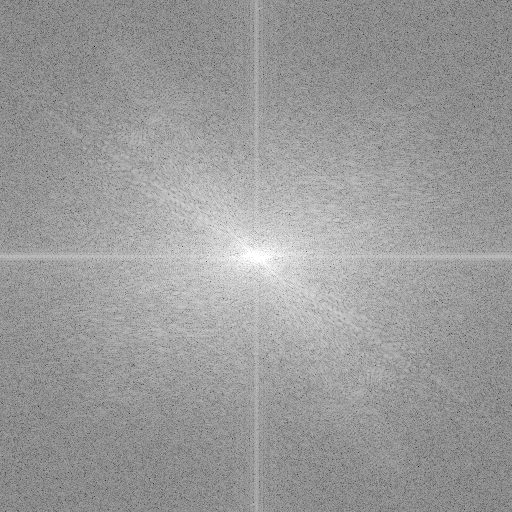
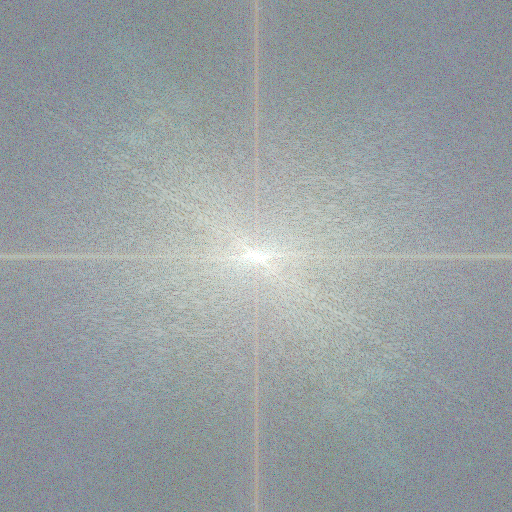
Added Filtering For Colours in Frequency Domain

diff --git a/app.py b/app.py
@@ -58,20 +58,30 @@ def frequency1():
     # read the image
     img = cv2.imread('temp.png')
 
-    # convert the image to grayscale
-    img = cv2.cvtColor(img, cv2.COLOR_BGR2GRAY)
+    # # convert the image to grayscale
+    # img = cv2.cvtColor(img, cv2.COLOR_BGR2GRAY)
 
-    # saving the image to a file
-    cv2.imwrite('temp.png', img)
+    # seperating the image into channels
+    b, g, r = cv2.split(img)
 
 
-    # generating the fourier spectrum of the image
-    f = np.fft.fft2(img)
-    fshift = np.fft.fftshift(f)
+    # generating the fourier spectrum of the image for all the channels seperately
+    f1 = np.fft.fft2(b)
+    fshift1 = np.fft.fftshift(f1)
 
-    # taking magnitude spectrum
-    magnitude_spectrum = 20*np.log(np.abs(fshift))
+    f2 = np.fft.fft2(g)
+    fshift2 = np.fft.fftshift(f2)
 
+    f3 = np.fft.fft2(r)
+    fshift3 = np.fft.fftshift(f3)
+
+    # taking magnitude spectrum for all the channels seperately
+    magnitude_spectrum1 = 20*np.log(np.abs(fshift1))
+    magnitude_spectrum2 = 20*np.log(np.abs(fshift2))
+    magnitude_spectrum3 = 20*np.log(np.abs(fshift3))
+
+    # merging the channels back
+    magnitude_spectrum = cv2.merge((magnitude_spectrum1, magnitude_spectrum2, magnitude_spectrum3))
 
     # saving the image to a file (for testing)
     cv2.imwrite('temp.png', magnitude_spectrum)
@@ -108,35 +118,66 @@ def frequency2():
     # read the image
     img = cv2.imread('temp2.png')
 
-    # convert the image to grayscale
-    img = cv2.cvtColor(img, cv2.COLOR_BGR2GRAY)
+    # # convert the image to grayscale
+    # img = cv2.cvtColor(img, cv2.COLOR_BGR2GRAY)
+    # seperating the image into channels
+    b, g, r = cv2.split(img)
+
+
 
     # since the image is the fourier spectrum, we use the radius and center to generate a mask in the image and set the other values to 0
-    rows, cols = img.shape
+    rows, cols, colours= img.shape
     crow, ccol = center
     mask = np.zeros((rows, cols), np.uint8)
     mask = cv2.circle(mask, (ccol, crow), radius, 1, -1)
+    # stacking the mask to the number of channels
+    mask = np.dstack((mask, mask, mask))
+
     if inverse == "True":
         mask = 1 - mask
 
+    # generating the fourier spectrum of the image for all the channels seperately
+    f1 = np.fft.fft2(b)
+    fshift1 = np.fft.fftshift(f1)
 
-    # generating the fourier spectrum of the image
-    f = np.fft.fft2(img)
-    fshift = np.fft.fftshift(f)
+    f2 = np.fft.fft2(g)
+    fshift2 = np.fft.fftshift(f2)
+
+    f3 = np.fft.fft2(r)
+    fshift3 = np.fft.fftshift(f3)
 
     # applying the mask to the generated fourier spectrum
-    fshift = fshift * mask
+    fshift1 = fshift1 * mask[:,:,0]
+    fshift2 = fshift2 * mask[:,:,1]
+    fshift3 = fshift3 * mask[:,:,2]
 
-    # taking magnitude spectrum
-    magnitude_spectrum = 20*np.log(np.abs(fshift))
+
+    # taking magnitude spectrum for all the channels seperately
+    magnitude_spectrum1 = 20*np.log(np.abs(fshift1))
+    magnitude_spectrum2 = 20*np.log(np.abs(fshift2))
+    magnitude_spectrum3 = 20*np.log(np.abs(fshift3))
+
+    # merging the channels back
+    magnitude_spectrum = cv2.merge((magnitude_spectrum1, magnitude_spectrum2, magnitude_spectrum3))
 
     # saving the image to a file (for testing)
     cv2.imwrite('temp2.png', magnitude_spectrum)
 
-    # # performing inverse fourier transform to get the image back
-    img_back = np.fft.ifftshift(fshift)
-    img_back = np.fft.ifft2(img_back)
-    img_back = np.abs(img_back)
+    # # performing inverse fourier transform for all the channels seperately
+    f_ishift1 = np.fft.ifftshift(fshift1)
+    img_back1 = np.fft.ifft2(f_ishift1)
+    img_back1 = np.abs(img_back1)
+
+    f_ishift2 = np.fft.ifftshift(fshift2)
+    img_back2 = np.fft.ifft2(f_ishift2)
+    img_back2 = np.abs(img_back2)
+
+    f_ishift3 = np.fft.ifftshift(fshift3)
+    img_back3 = np.fft.ifft2(f_ishift3)
+    img_back3 = np.abs(img_back3)
+
+    # merging the channels back
+    img_back = cv2.merge((img_back1, img_back2, img_back3))
 
 
     # saving the image to a file (for testing)
